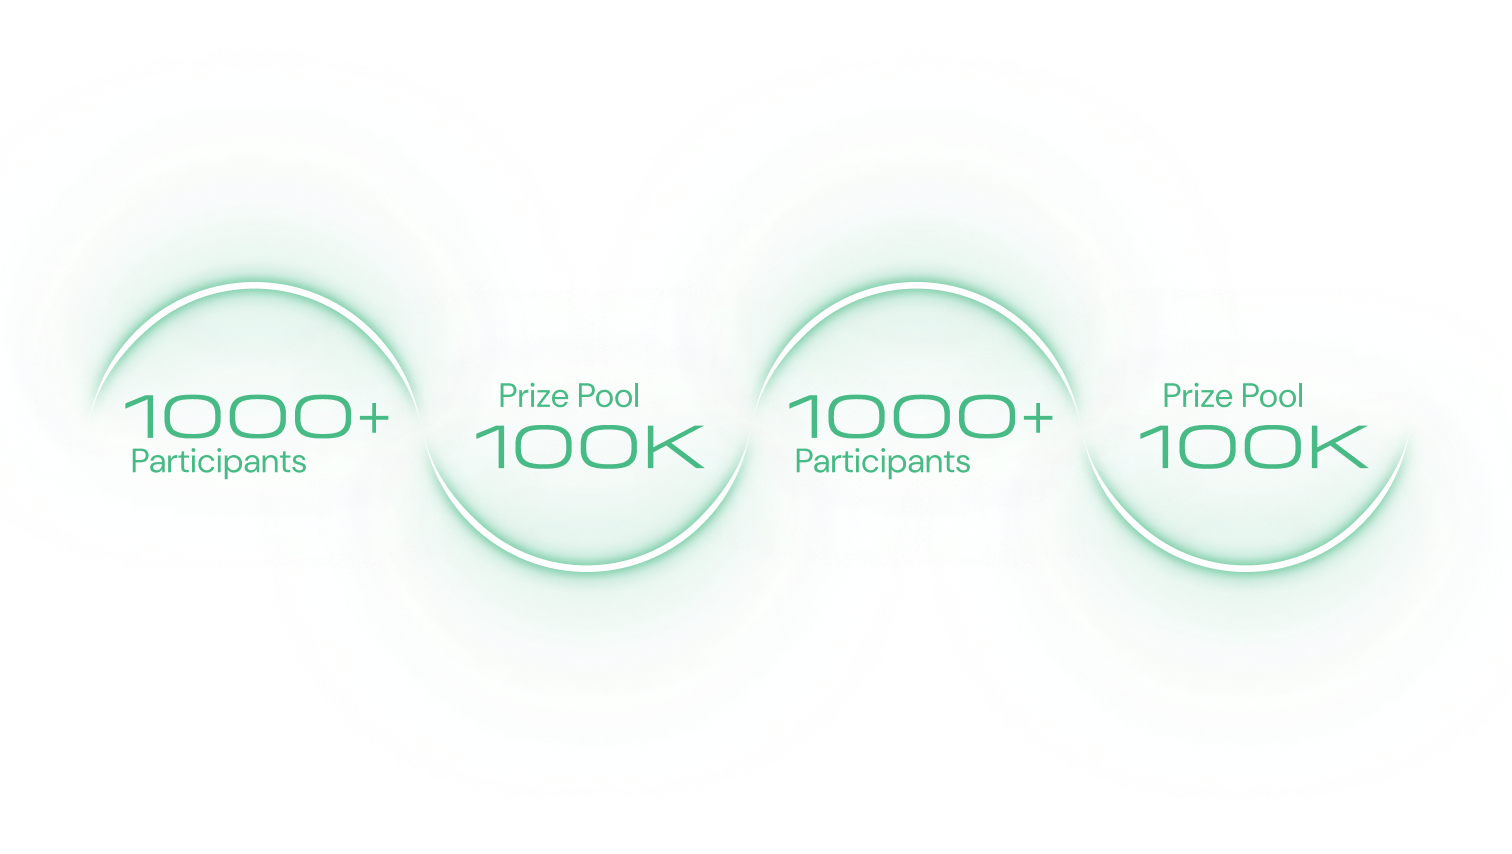
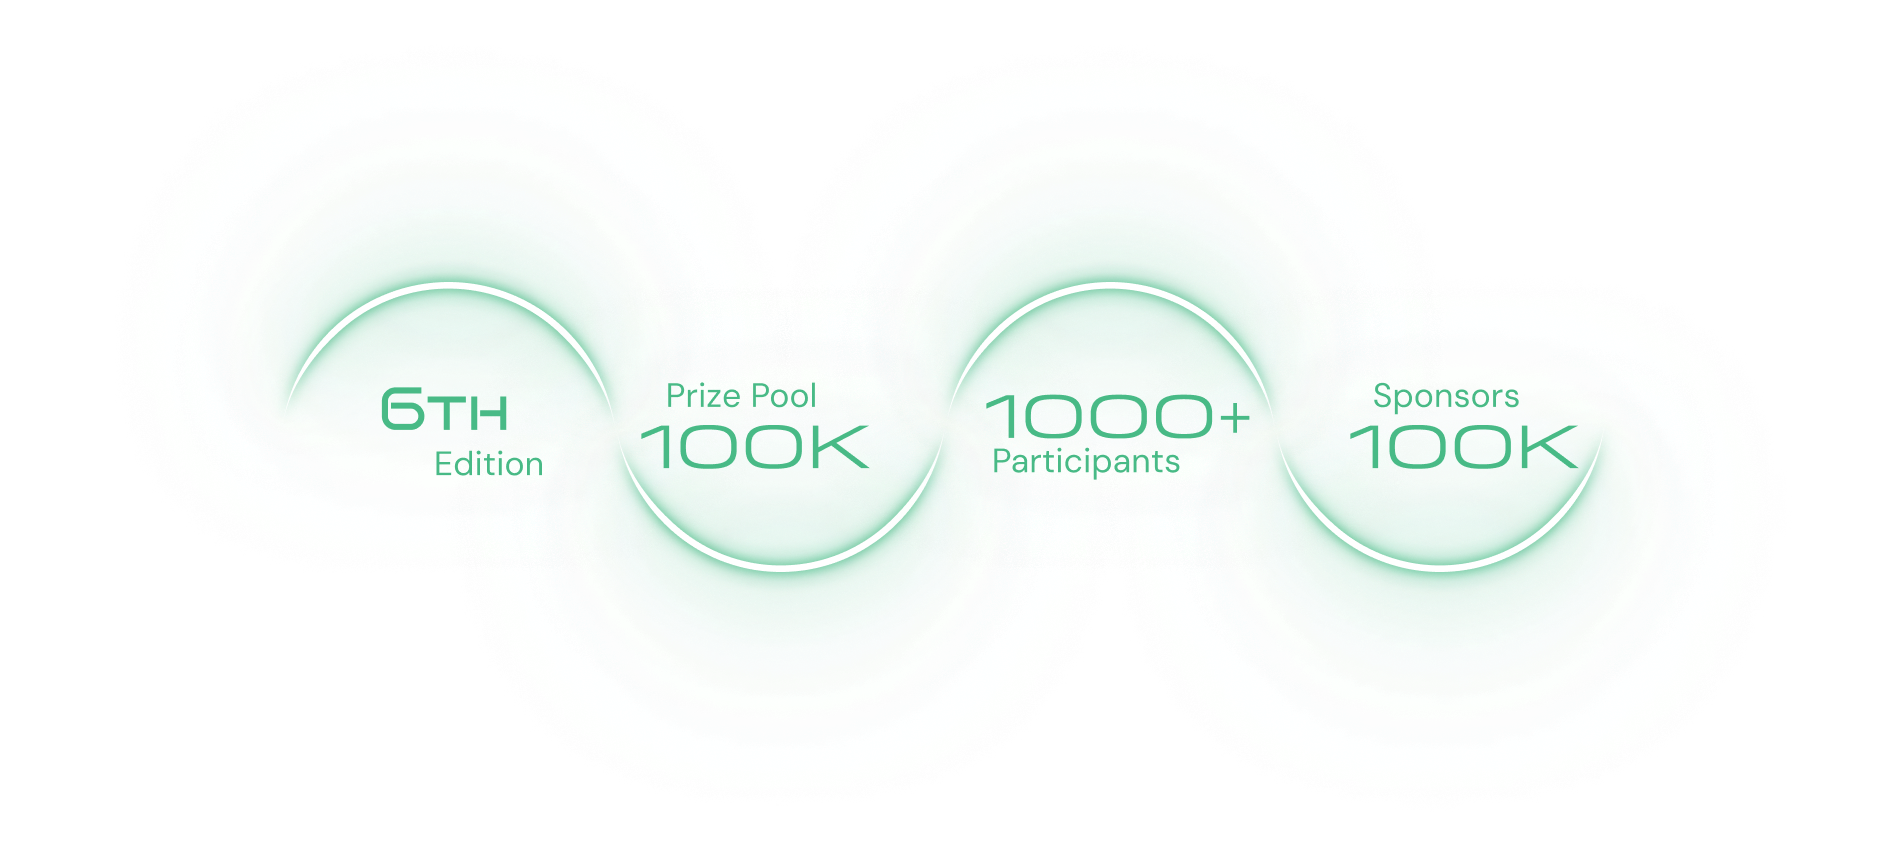
Stats updated, fixes

Changed region(s): [[0.0622, 0.3044, 0.4974, 0.7002], [0.5284, 0.3044, 0.9325, 0.7002]]

diff --git a/app/components/landing/footer.tsx b/app/components/landing/footer.tsx
@@ -157,64 +157,31 @@ const Footer = () => {
           </p>
 
           {/* Social Icons */}
-          <div className="flex flex-row items-center gap-3 sm:gap-4 md:gap-6 mb-8 sm:mb-10 md:mb-12 flex-wrap justify-center">
+          <div className="flex flex-row items-center gap-4 sm:gap-5 md:gap-6 mb-8 sm:mb-10 md:mb-12 flex-wrap justify-center">
             {[
-              {
-                href: "https://www.facebook.com/acmvitvellore",
-                src: "/footer/Facebook.svg",
-                alt: "Facebook",
-                w: 72,
-                h: 60,
-              },
-              {
-                href: "https://x.com/acm_vit",
-                src: "/footer/Twitter.svg",
-                alt: "Twitter",
-                w: 56,
-                h: 56,
-              },
-              {
-                href: "https://www.instagram.com/acmvit",
-                src: "/footer/Instagram.svg",
-                alt: "Instagram",
-                w: 72,
-                h: 60,
-              },
-              {
-                href: "https://medium.com/acmvit",
-                src: "/footer/Medium.svg",
-                alt: "Medium",
-                w: 72,
-                h: 60,
-              },
-              {
-                href: "https://www.linkedin.com/company/acmvit",
-                src: "/footer/Linkedin.svg",
-                alt: "Linkedin",
-                w: 72,
-                h: 60,
-              },
-              {
-                href: "https://www.youtube.com/@acm_vit",
-                src: "/footer/youtube icon.svg",
-                alt: "YouTube",
-                w: 56,
-                h: 56,
-              },
-            ].map(({ href, src, alt, w, h }) => (
+              { href: "https://www.facebook.com/acmvitvellore", src: "/footer/Facebook.svg", alt: "Facebook" },
+              { href: "https://x.com/acm_vit", src: "/footer/Twitter.svg", alt: "Twitter" },
+              { href: "https://www.instagram.com/acmvit", src: "/footer/Instagram.svg", alt: "Instagram" },
+              { href: "https://medium.com/acmvit", src: "/footer/Medium.svg", alt: "Medium" },
+              { href: "https://www.linkedin.com/company/acmvit", src: "/footer/Linkedin.svg", alt: "Linkedin" },
+              { href: "https://www.youtube.com/@acm_vit", src: "/footer/youtube icon.svg", alt: "YouTube" },
+            ].map(({ href, src, alt }) => (
               <a
                 key={alt}
                 href={href}
                 target="_blank"
                 rel="noopener noreferrer"
+                className="group"
               >
-                <Image
-                  src={src}
-                  alt={alt}
-                  width={w}
-                  height={h}
-                  className={`${alt === "YouTube" ? "rounded" : ""} hover:scale-110 transition-transform w-8 h-8 sm:w-10 sm:h-10 md:w-auto md:h-auto`}
-                />
+                <div className="relative w-10 h-10 sm:w-12 sm:h-12 md:w-14 md:h-14 lg:w-16 lg:h-16">
+                  <Image
+                    src={src}
+                    alt={alt}
+                    fill
+                    className={`object-contain ${alt === "YouTube" ? "rounded" : ""} transition-transform group-hover:scale-110`}
+                    sizes="(min-width:1024px) 56px, (min-width:640px) 48px, 40px"
+                  />
+                </div>
               </a>
             ))}
           </div>

diff --git a/app/components/landing/about-acm.tsx b/app/components/landing/about-acm.tsx
@@ -98,11 +98,11 @@ const About = ({ children }: { children?: React.ReactNode }) => (
           {/* Stats Image */}
           <div id="stats" className="w-full flex justify-center items-center">
             <Image
-              src="/landing/stats.png"
+              src="/Landing/stats.png"
               alt="ACM Stats"
-              width={1600}
-              height={1000}
-              className="w-full max-w-5xl h-auto pointer-events-auto"
+              width={1800}
+              height={1200}
+              className="w-full max-w-8xl h-auto pointer-events-auto py-12"
               draggable={false}
               priority
             />